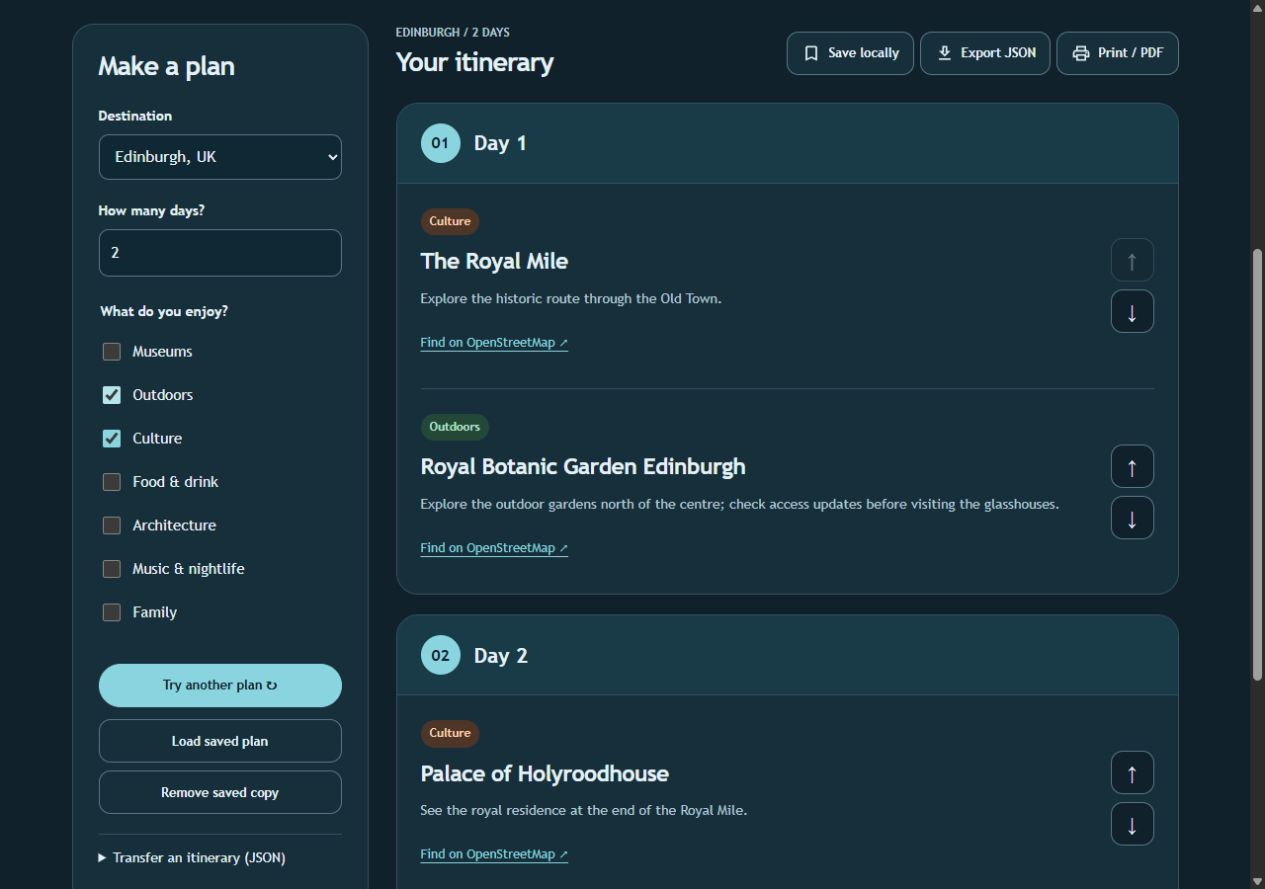
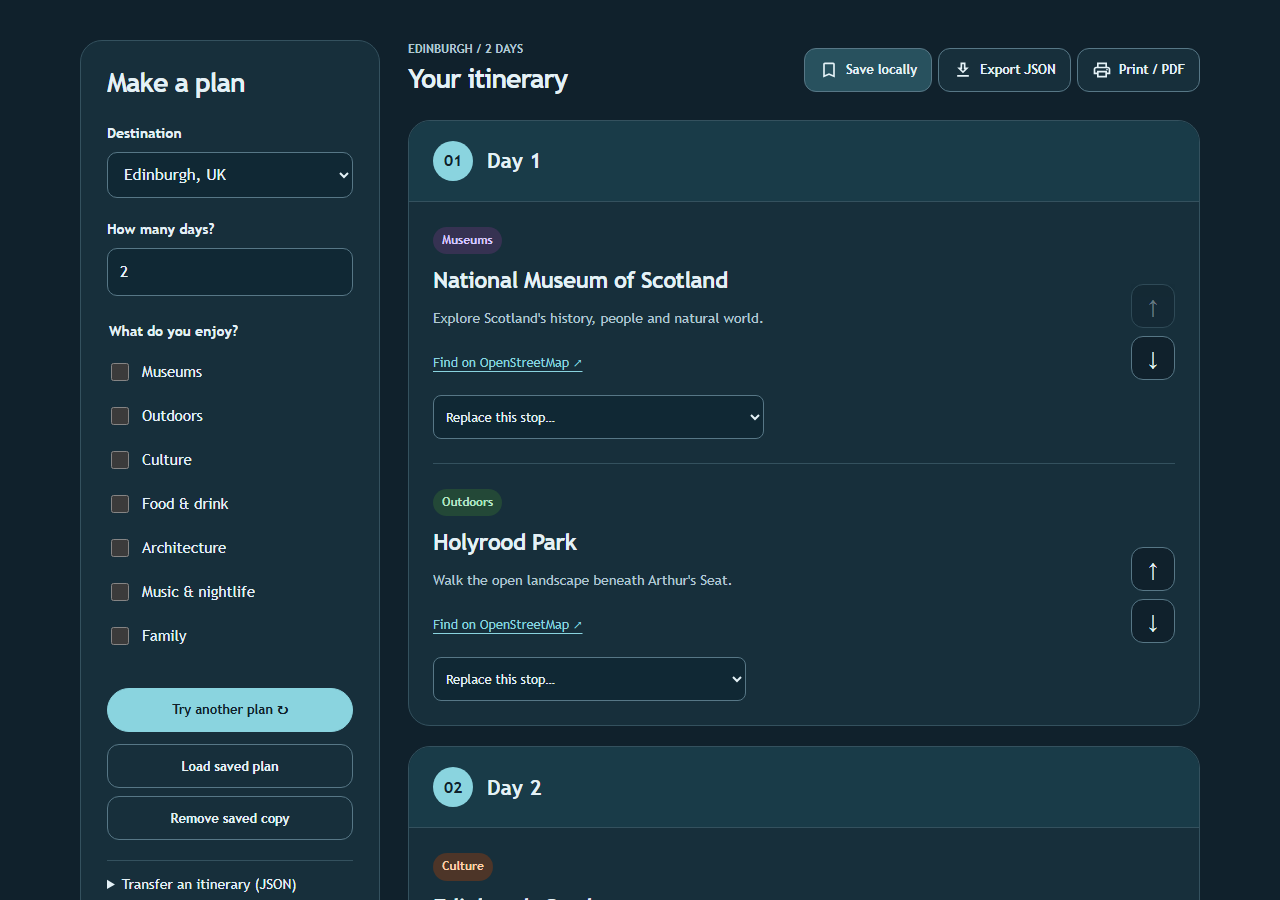
Refresh previews for the current project interfaces

diff --git a/src/components/Projects.tsx b/src/components/Projects.tsx
@@ -1,8 +1,8 @@
 import newsPreview from "../assets/photos/project-news.png";
 import travelPreview from "../assets/photos/project-travel.png";
 import opsPreview from "../assets/photos/project-opslens.webp";
-import contractPreview from "../assets/photos/project-contract.webp";
-import stockPreview from "../assets/photos/project-stockroom.webp";
+import contractPreview from "../assets/photos/project-contract.jpg";
+import stockPreview from "../assets/photos/project-stockroom.jpg";
 import gridPreview from "../assets/photos/project-grid.png";
 import runbookPreview from "../assets/photos/project-runbook.png";
 
